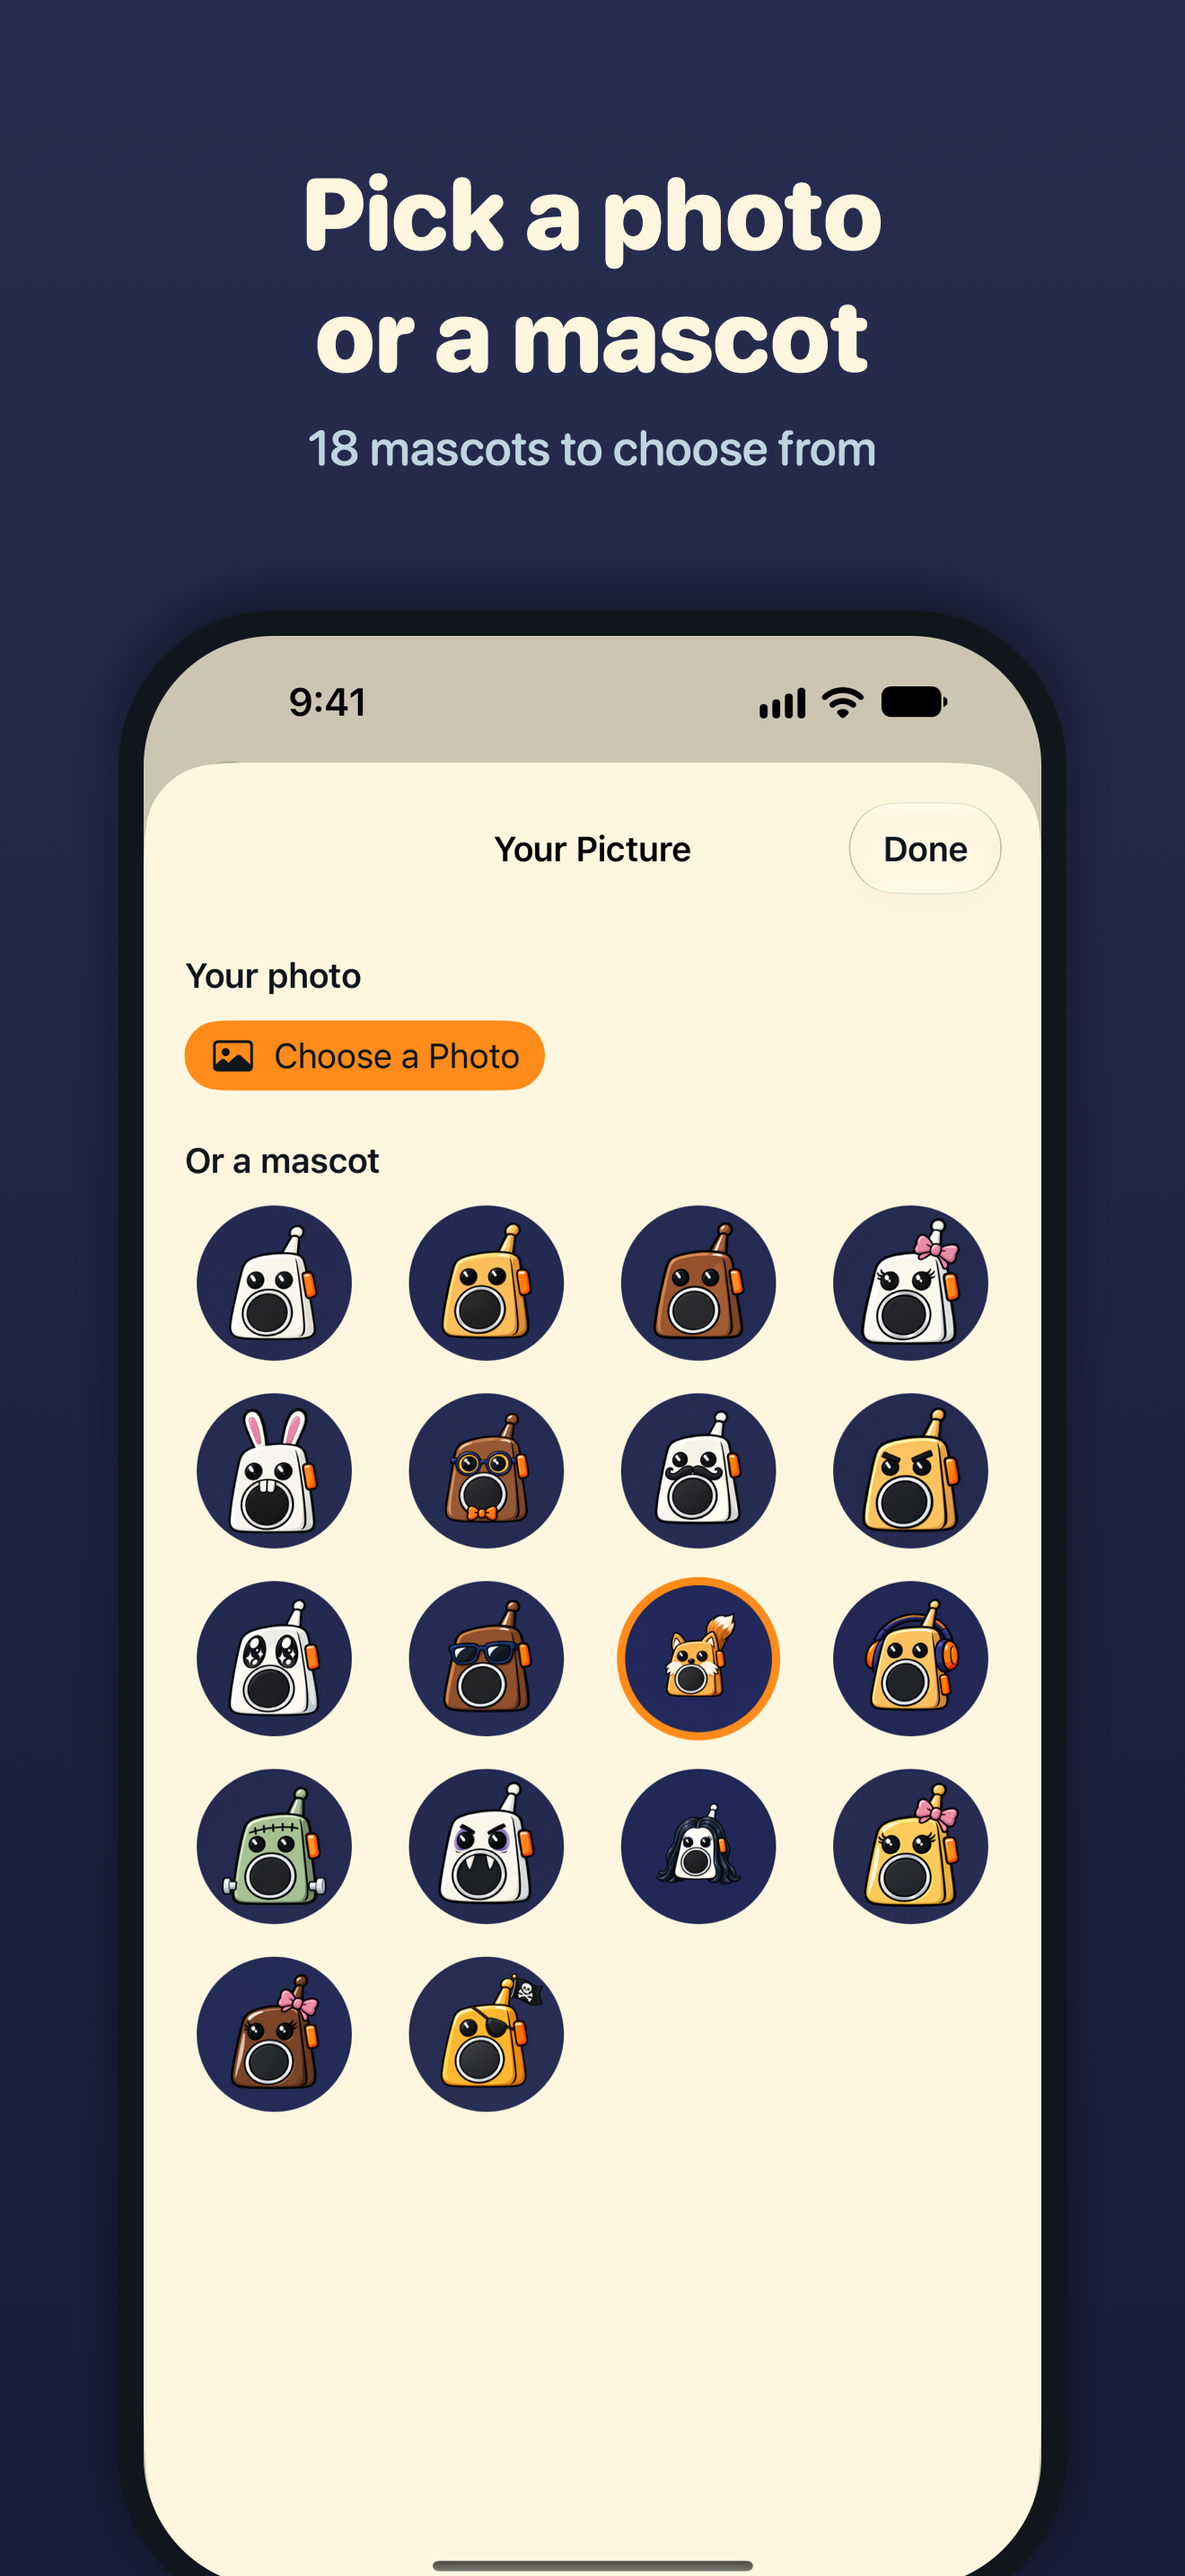
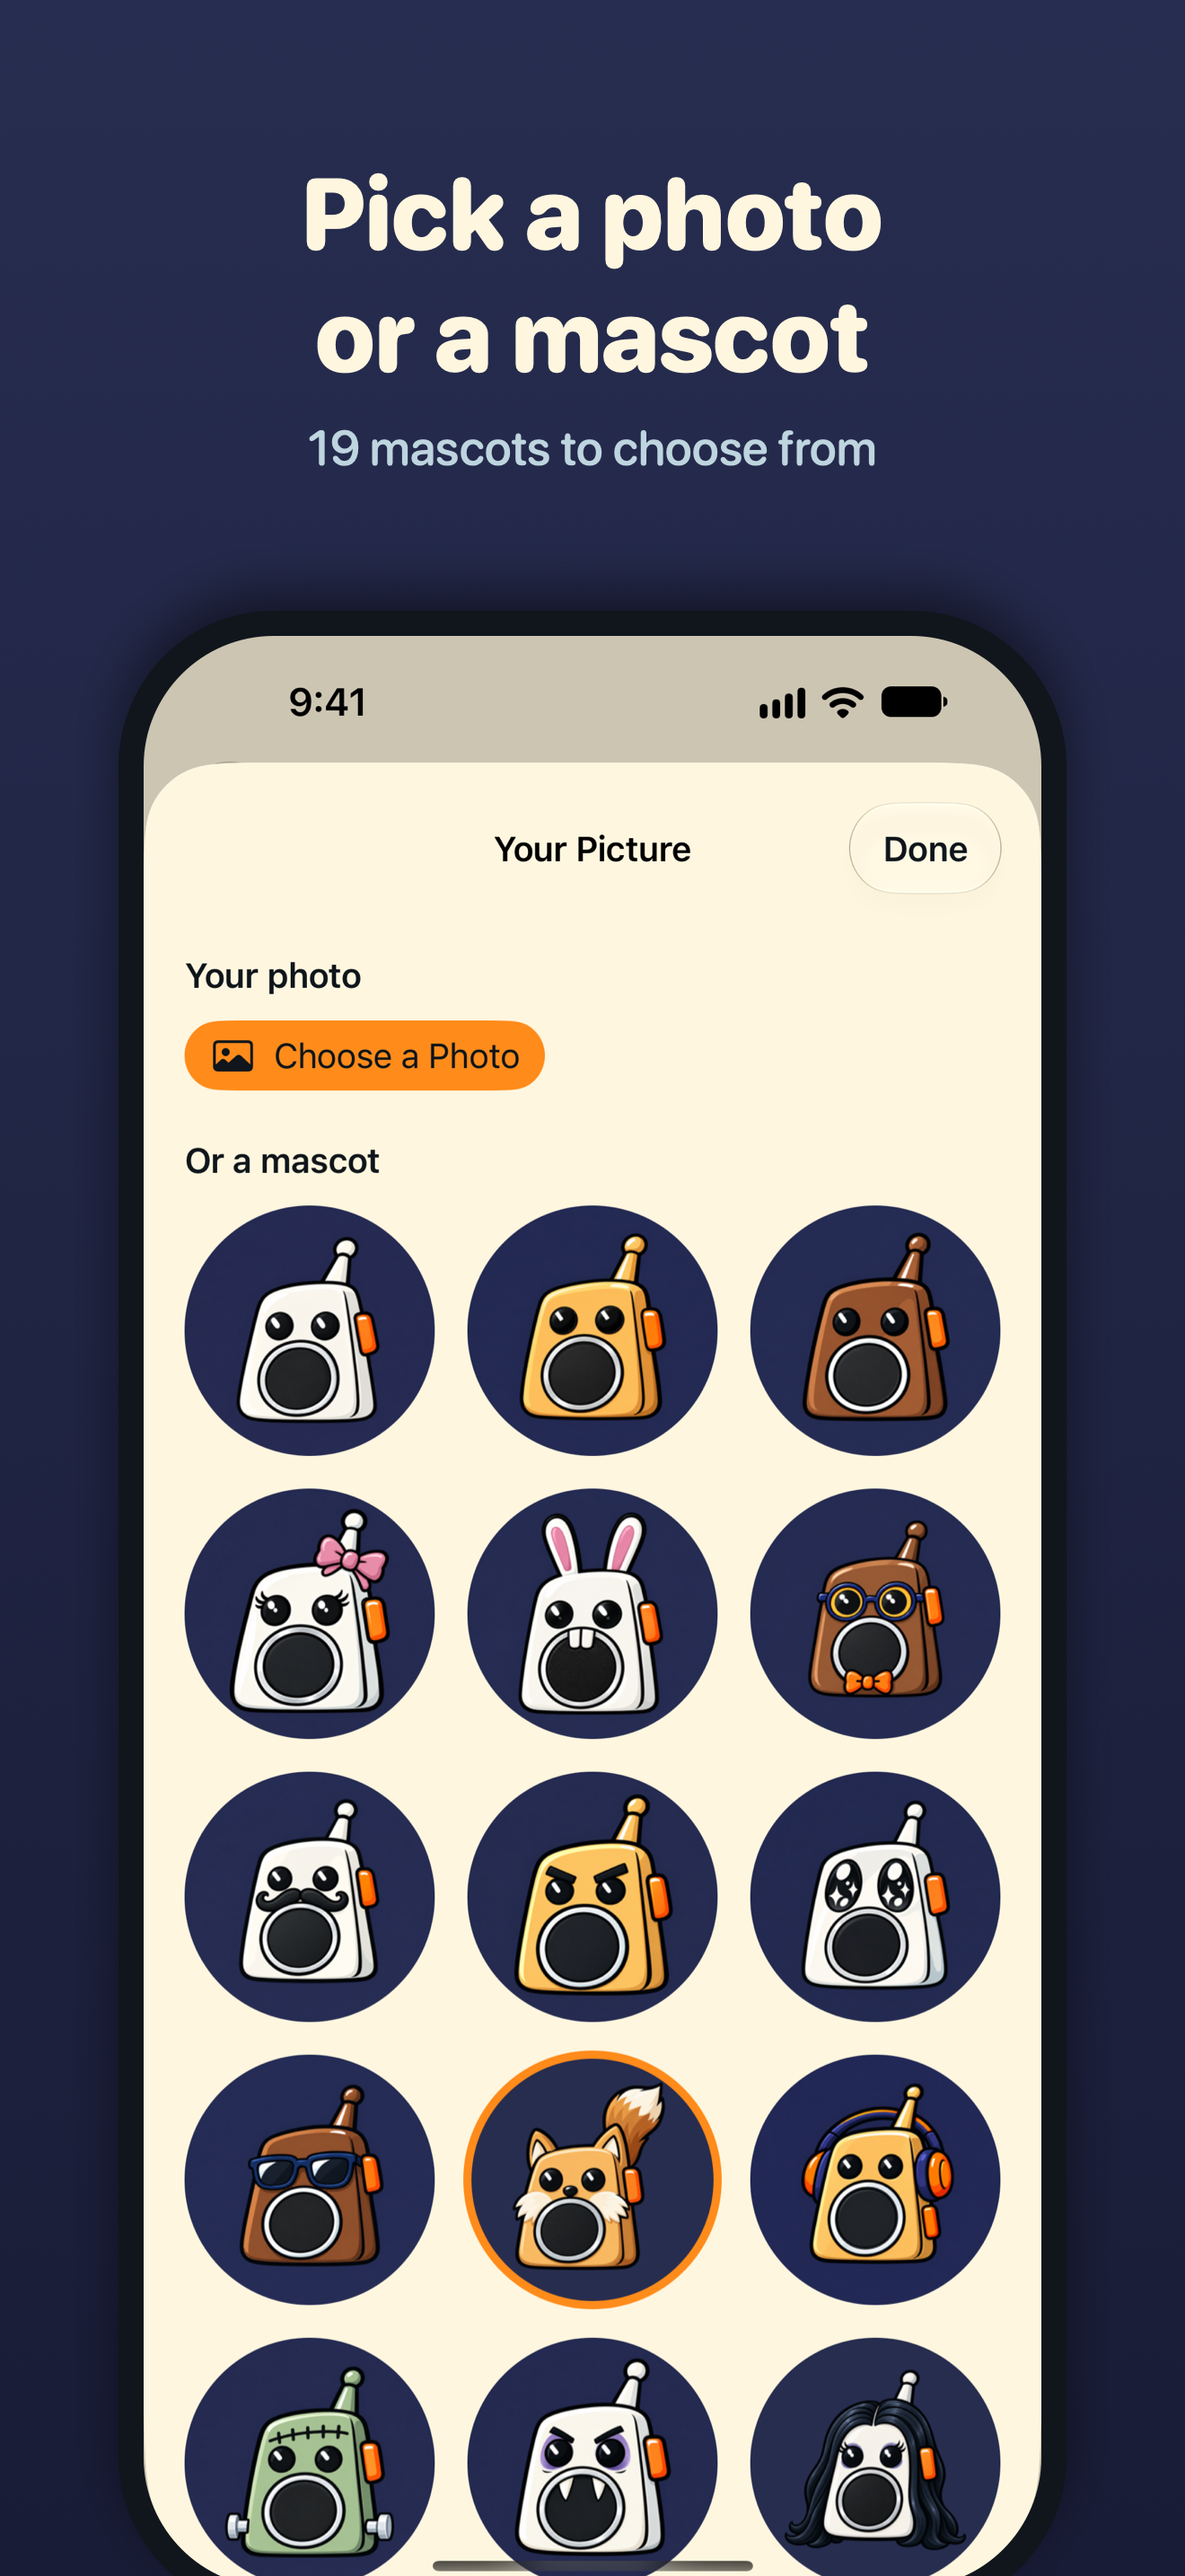
Store: 19 mascots, and slide 6 retaken with the current picker
The cow (#66) is the 19th mascot: slide 6's subheading and the store description say 19, and
slide 6 is a new capture of the three-column picker (Alex's fox selected). RENAME_CHECKLIST
ticks the screenshots item; HANDOFF records the upload and what Steve finished.

Changed region(s): [[0.1553, 0.4655, 0.8697, 1.0], [0.2795, 0.1552, 0.3106, 0.1862]]

diff --git a/deploy/appstore/screenshots/compose.swift b/deploy/appstore/screenshots/compose.swift
@@ -226,7 +226,7 @@ slide("iphone-2-locked", "Talk without\nunlocking", "Friends play right away, ev
 slide("iphone-3-talk", "Hold to talk.\nLet go to listen.", nil, "phone-talking")
 slide("iphone-4-listen", "Hear them\nright away", "Back and forth, as long as you like", "phone-listening")
 slide("iphone-5-friends", "Only friends\ncan ring you", "Invite them with a link in Messages", "phone-friends")
-slide("iphone-6-picture", "Pick a photo\nor a mascot", "18 mascots to choose from", "phone-picture")
+slide("iphone-6-picture", "Pick a photo\nor a mascot", "19 mascots to choose from", "phone-picture")
 slide("iphone-7-ring-choice", "Your watch\nrings first", "Or choose your iPhone. Only one rings.", "phone-ring-choice")
 
 // Watch: the captures as they are, in App Store order.

diff --git a/HANDOFF.md b/HANDOFF.md
@@ -22,7 +22,11 @@ Read this first. Nowza: Walkie Talkie + Watch (called Over&Out: Watch Walkie Tal
   - **Never run `test-account.ts keys`/`register-keys` for the bot:** new keys would replace the always-on Test Bot's registration.
   - The bot's session file names `https://walkie-talkie-relay.web.app` as its API (same site), so it needs no change.
   - If a conversation is still open (the 45 s idle timer), a send goes into it with no ring ("already live"). Tap End on the watch first.
-- **Still open:** App Store Connect URLs and TestFlight test information (ask); retake store screenshots `iphone-2-locked`, `iphone-5-friends` and `iphone-7-ring-choice`; Steve lets overandout.app lapse at GoDaddy and test-mails nowza@. The Test Bot's greeting is still a macOS `say` voice (backlog: record a real one).
+- **Store screenshots retaken and uploaded (2026-10-10, Steve's OK):** slides 2, 5 and 7 no longer show Over&Out, and slide 6 shows the current three-column picker with "19 mascots" (the cow). The store description says 19 too. All 11 are on version 1.0 (`asc.ts screenshots --replace`).
+  - Slide 2 is Steve's Lock Screen on build 274, sent through chat at 921×2000.
+  - Slides 5–7 are simulator captures of demo account Alex, seeded through `/v2` on a local relay (port 8097).
+  - For a watch to register in the simulator (so the ring-choice dialog shows), the watch app needs notifications and the microphone allowed, plus keys certified by the iPhone ("Sign In on Watch Again").
+- **Done by Steve (2026-10-10):** App Store Connect URLs and TestFlight test information; overandout.app lapsing at GoDaddy; nowza@ mail checked. The rename has nothing left open but the Test Bot's greeting, still a macOS `say` voice (backlog: record a real one). The Test Bot's greeting is still a macOS `say` voice (backlog: record a real one).
 
 **2026-10-09 (evening): Nowza is live on nowza.app, and overandout.app is retired from Google Cloud.** PRs #63 (apps and services), #64 (website) and #65 (docs) are merged.
 - **Live, all on `57746e5`:** the relay (relay-1.nowza.app), the API, Ops and both stats jobs; the website is from #64.

diff --git a/RENAME_CHECKLIST.md b/RENAME_CHECKLIST.md
@@ -171,7 +171,7 @@ State on 2026-10-09:
   - the app name, the "Renamed" note and the keywords (with `phone`) were already updated on 2026-10-09; recheck duplicates only if the name or subtitle changes
   - remove the "being renamed" note
 - [x] **`deploy/appstore/creative-assets/compose.swift`** and its outputs: the text is "Walkie-talkie for iPhone + Apple Watch", with no name in the strings. Check that the UI captures it composes don't show "Over&Out" (for example About). Regenerate and get Steve's approval if they do. *(OCR of its outputs finds no old name.)*
-- [ ] **`deploy/appstore/screenshots/`:** retake any screenshot that shows the old name. *(OCR, 2026-10-09: `iphone-2-locked` (Lock Screen "Over&Out", from Steve's iPhone), `iphone-5-friends` and `iphone-7-ring-choice` (masthead and text). Retake after PR A merges.)*
+- [x] **`deploy/appstore/screenshots/`:** retake any screenshot that shows the old name. *(Done 2026-10-10: slides 2 (Steve's Lock Screen on build 274), 5 and 7 retaken (`a11dfcb`), and slide 6 for the 19th mascot, the cow; uploaded to version 1.0 with `asc.ts screenshots --replace`.)*
 - [x] **`deploy/appstore/asc.ts` and `testflight.sh`:** check for hard-coded names (scheme and archive names stay, per section 0). *(Only section 0 identifiers.)*
 
 ## 6. Docs and repo (PR C)

diff --git a/deploy/appstore/product-page-copy.md b/deploy/appstore/product-page-copy.md
@@ -47,7 +47,7 @@ Here's how it works:
 
 • Invite the people you want to hear from. Send a link through Messages. They choose whether to add you, and only accepted friends can ring you. You can block or report someone if you need to.
 
-Pick a screen name and a picture your friends will recognize: your own photo or one of Nowza's 18 mascots. They'll see it when you ring. Nowza doesn't keep recordings or a message history.
+Pick a screen name and a picture your friends will recognize: your own photo or one of Nowza's 19 mascots. They'll see it when you ring. Nowza doesn't keep recordings or a message history.
 
 Start on your iPhone with Sign in with Apple. If you have an Apple Watch, install Nowza on it and it signs in from your iPhone.
 
